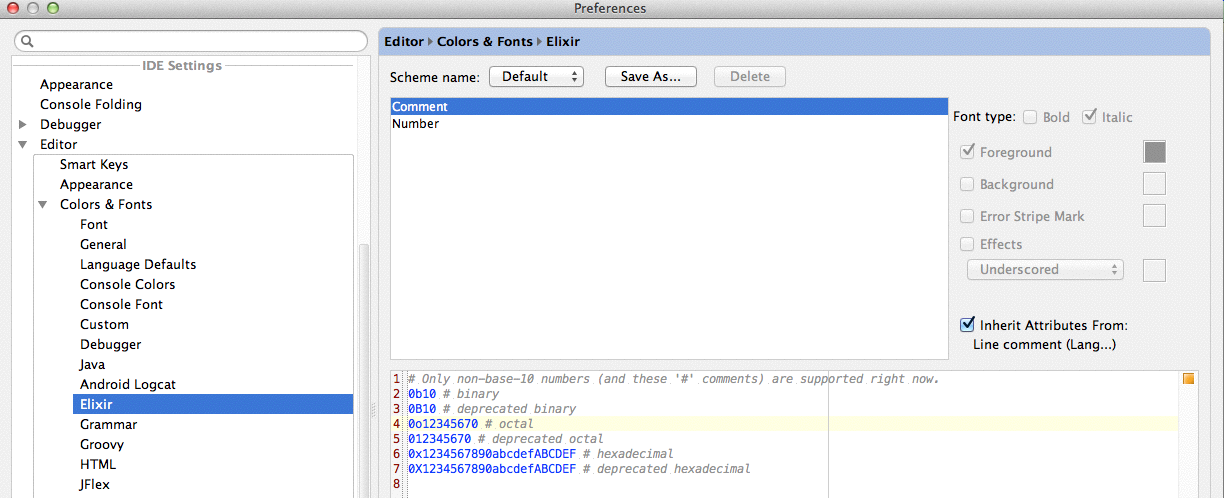
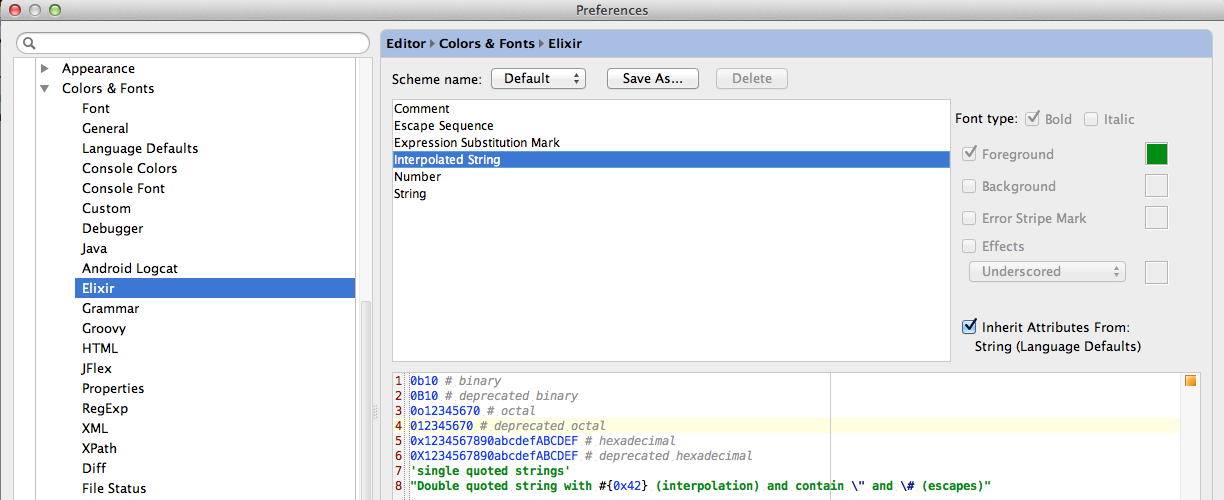
Update changelogs and screenshots for v0.0.3

diff --git a/CHANGELOG.md b/CHANGELOG.md
@@ -1,5 +1,13 @@
 # Changelog
 
+## v0.0.3
+
+* Enhancements
+  * Single quoted strings with highlighting. ('String' in Color Settings.)
+  * Double quoted strings with highlighting. ('Interpolated String' in Color Settings.)
+     * Interpolation (`#{` and `}`) with highlighting. ('Expression Substitution Mark' in Color Settings.)
+     * Escape sequences for `"` and `#` with highlighting. ('Escape Sequence' in Color Settings.)   
+
 ## v0.0.2
 
 * Enhancements
